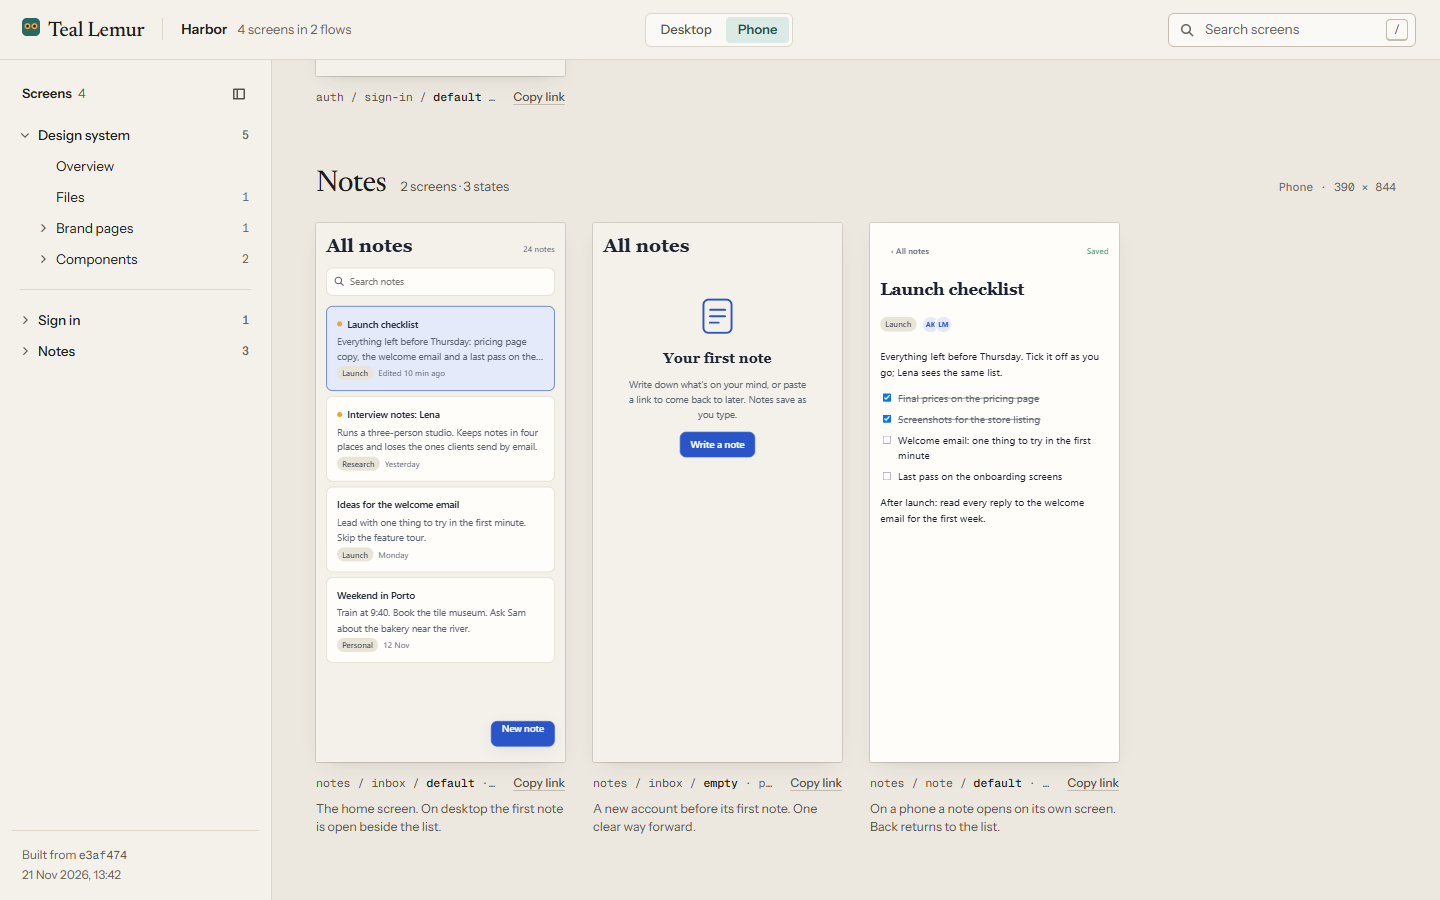
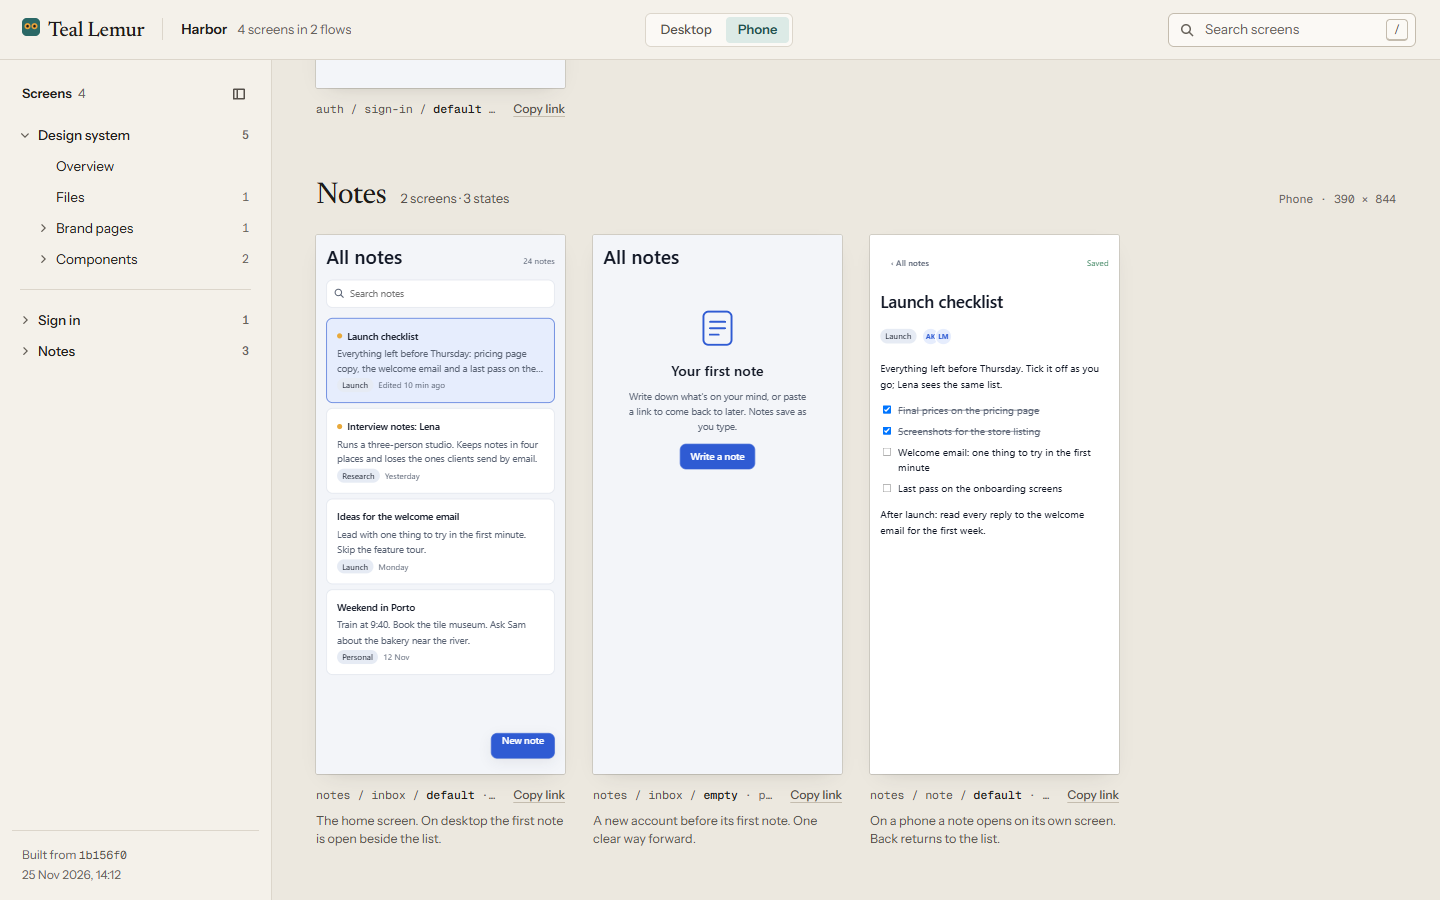
docs: give the example Harbor a look of its own, and retake the README pictures (#2)
Harbor used Teal Lemur's own paper ground and serif headings, so in the
README's pictures nobody could tell the sample design from Teal Lemur itself.
It is now cool white and blue, with sans-serif headings. Only these tokens
change in examples/harbor/design-system/tokens.css: --colour-bg, -surface,
-sidebar, -text, -text-muted, -line, -accent, -accent-subtle and
--font-display.

docs/images/ (board, preview, overview) were taken again as
docs/development.md describes. That section now spells out the steps,
including the preview's head change and the LF line endings.

No change to the CLI, the viewer or the output.

diff --git a/examples/harbor/design-system/tokens.css b/examples/harbor/design-system/tokens.css
@@ -1,20 +1,20 @@
 /* Harbor: the only file with colours and font names. */
 :root {
-  --colour-bg: #f4f1ea;                 /* page ground */
-  --colour-surface: #fffdf9;            /* cards, the editor and dialogs */
-  --colour-sidebar: #e9e4d8;            /* the notebook list */
-  --colour-text: #1b2333;               /* body text and headings */
-  --colour-text-muted: #5c6474;         /* dates, counts and hints */
+  --colour-bg: #f3f5f9;                 /* page ground */
+  --colour-surface: #ffffff;            /* cards, the editor and dialogs */
+  --colour-sidebar: #e6ebf4;            /* the notebook list */
+  --colour-text: #121826;               /* body text and headings */
+  --colour-text-muted: #5b6475;         /* dates, counts and hints */
   --colour-text-on-accent: #ffffff;     /* text on the accent */
-  --colour-line: #ddd6c7;               /* card edges and dividers */
-  --colour-accent: #2a55c9;             /* the one primary action */
-  --colour-accent-subtle: #e4eafa;      /* the selected note and notebook */
+  --colour-line: #dce1ea;               /* card edges and dividers */
+  --colour-accent: #2f5bd3;             /* the one primary action */
+  --colour-accent-subtle: #e6edfd;      /* the selected note and notebook */
   --colour-pin: #e8a93b;                /* pinned notes */
   --colour-success: #2c7a52;            /* saved */
   --colour-danger: #b8412c;             /* errors */
 
   --font-body: "Segoe UI", ui-sans-serif, system-ui, sans-serif;
-  --font-display: Georgia, "Times New Roman", serif;
+  --font-display: "Segoe UI", ui-sans-serif, system-ui, sans-serif;
 
   --text-s: 13px;
   --text-m: 15px;

diff --git a/docs/development.md b/docs/development.md
@@ -88,6 +88,22 @@ to the viewer's look, open an issue.
 
 The images in `docs/images/` show `examples/harbor`, built with `build` at
 1440 × 900 with the board at Phone size. The preview shows one change on top of
-it: the inbox groups pinned notes under "Pinned" and "Recent", and
-`--colour-pin` changes. When the viewer changes visibly, build them again the
-same way and replace the images.
+it: the inbox groups pinned notes under "Pinned" and "Recent" (a
+`<p class="label">` line before each group in
+`screens/notes/inbox--default.html`), and `--colour-pin` changes to `#d9822b`.
+When the viewer changes visibly, build them again the same way and replace the
+images:
+
+1. Copy `examples/harbor` into a new folder, `git init` it and commit: that's
+   the base. Make the change above on a branch and commit it: that's the head.
+2. Clone the base into another folder with
+   `git -c core.autocrlf=false clone`, so line endings stay LF. Otherwise every
+   file counts as changed.
+3. Build the board and its overview from the base clone:
+   `teallemur build <base clone> --out <dir>`. Build the preview from the head:
+   `teallemur build <head> --out <dir> --base <base clone> --label "PR 14: pinned notes at the top"`.
+   The preview should count 1 changed screen and 1 token change.
+4. Take each picture at 1440 × 900 and a device scale of 1:
+   - the board at Phone, scrolled to the Notes flow;
+   - the preview at Phone, from the top;
+   - the overview page, from the top.
